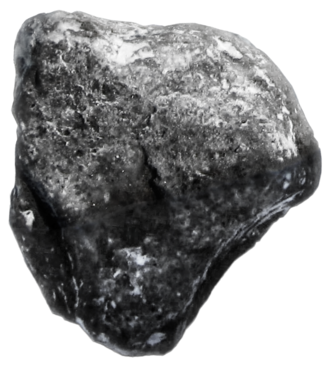
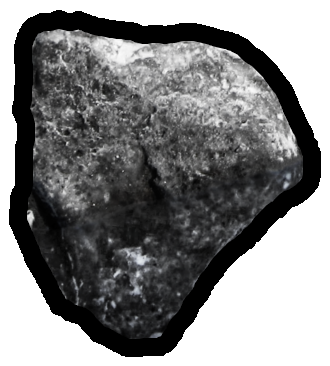
Updated Viewer.java

Changed region(s): [[0.0, 0.0301, 1.0, 0.9918]]

diff --git a/src/comp1110/ass2/gui/Viewer.java b/src/comp1110/ass2/gui/Viewer.java
@@ -69,7 +69,7 @@ public class Viewer extends Application {
 
 
     // Given the coordinate, will return the absolute position on the viewer stage.
-    // Can be used for drawing graphics
+    // Can be used for drawing shapes or placing images.
     public double[] cordToXY (int x, int y){
         double outX = 0;
         double outY = 0;
@@ -118,8 +118,10 @@ public class Viewer extends Application {
             /* These two lines set the location of the image in Cartesian
                coordinates - except y moves from top to bottom, not bottom to
                top. */
-        stone.setLayoutX(200);
-        stone.setLayoutY(50);
+        stone.setFitWidth(36);
+        stone.setFitHeight(36);
+        stone.setLayoutX(cordToXY(0,2)[0]-18);
+        stone.setLayoutY(cordToXY(0,2)[1]-18);
 
             /* Add the apple segment to our board Group, and by extension, our
                root Group. */
